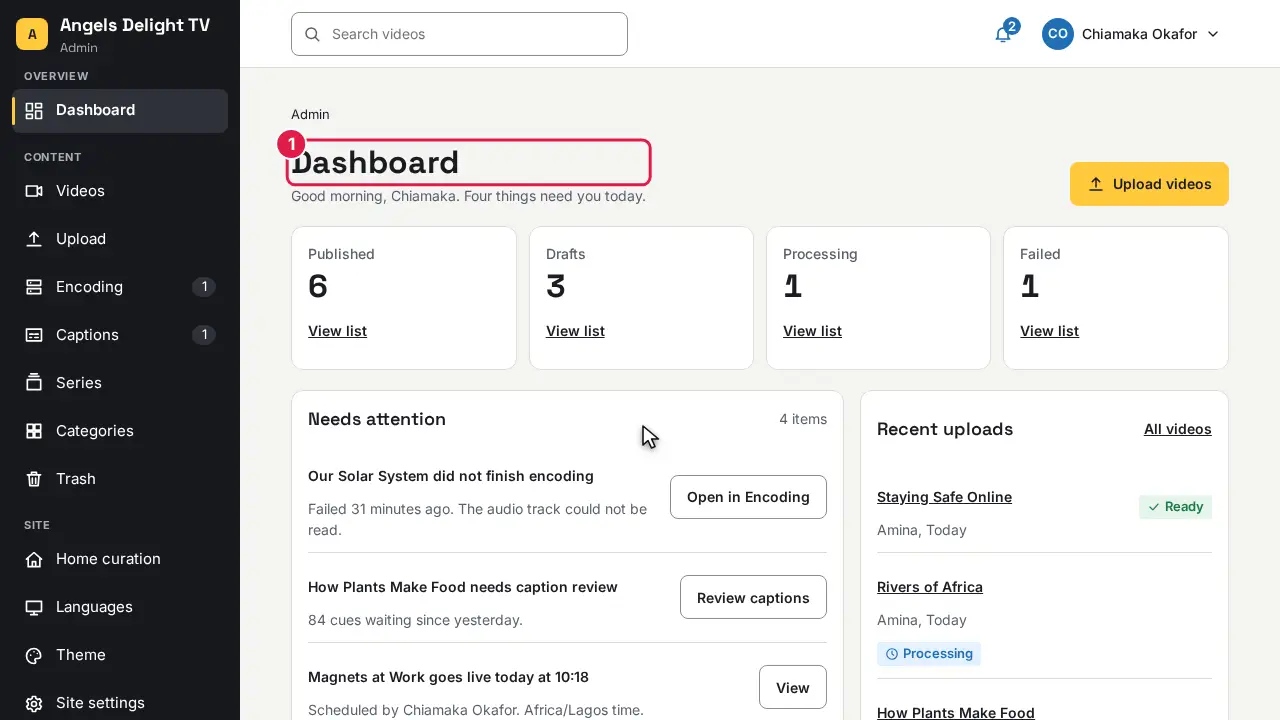
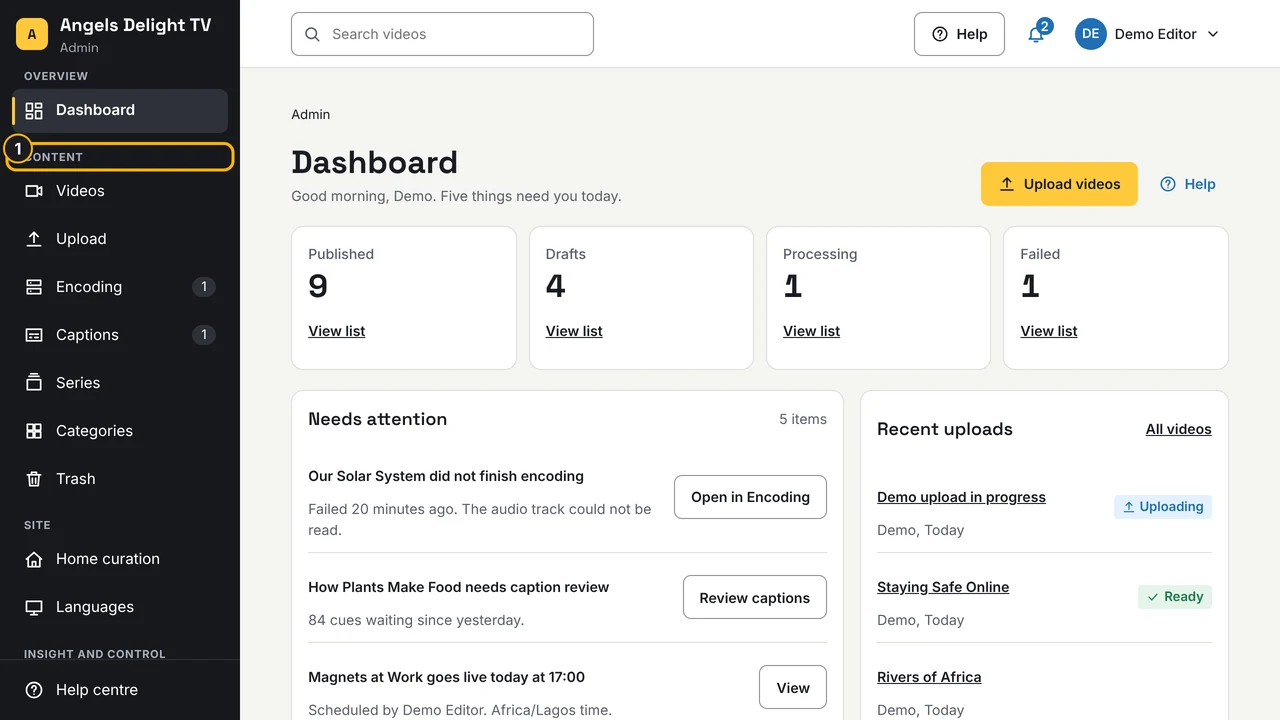
Reset help progress with the KB demo, search for the video in D05 and D06, lengthen short episodes and keep S06 off the unsaved poster

diff --git a/scripts/kb-recorder/episodes/S06.ts b/scripts/kb-recorder/episodes/S06.ts
@@ -107,6 +107,11 @@ const episode: Episode = {
         await waitForToast(s, 'Changes saved');
       },
     },
+    lookStep(
+      'Check that **Before you publish** shows what is left to do.',
+      (s) => s.page.getByText('Before you publish').first(),
+      { holdMs: 3200, shot: { name: 'checklist', alt: 'The Before you publish checklist marked 1', label: 'Checklist' } },
+    ),
     {
       caption: 'Click **Choose poster**.',
       holdMs: 1800,
@@ -120,24 +125,10 @@ const episode: Episode = {
         marks: [{ target: (s) => s.page.getByRole('button', { name: 'Save poster', exact: true }), label: 'Save poster' }],
       },
     },
-    {
-      caption: 'Click **Save poster**.',
-      holdMs: 1800,
-      run: async (s) => {
-        await clickByName(s, 'button', 'Save poster', { exact: true });
-      },
-    },
-    {
-      caption: 'Wait until you see **Poster saved**.',
-      holdMs: 2200,
-      run: async (s) => {
-        await waitForToast(s, 'Poster saved');
-      },
-    },
     lookStep(
-      'Check that **Before you publish** shows what is left to do.',
-      (s) => s.page.getByText('Before you publish').first(),
-      { holdMs: 3200, shot: { name: 'checklist', alt: 'The Before you publish checklist marked 1', label: 'Checklist' } },
+      'Check that **Save poster** is on the screen.',
+      (s) => s.page.getByRole('button', { name: 'Save poster', exact: true }),
+      { holdMs: 3400, shot: { name: 'save-poster', alt: 'The Save poster button marked 1', label: 'Save poster' } },
     ),
   ],
 };

diff --git a/apps/web/src/lib/data/admin/help-progress.ts b/apps/web/src/lib/data/admin/help-progress.ts
@@ -36,7 +36,7 @@ export function summarizeProgress(
   };
 }
 
-export function createFixtureHelpProgress(): HelpProgressService {
+export function createFixtureHelpProgress(): HelpProgressService & { clear(): void } {
   const store = new Map<string, ProgressRows>();
   const row = (actor: AdminActor, guide: string): GuideProgress => {
     assertGuide(guide);
@@ -45,6 +45,9 @@ export function createFixtureHelpProgress(): HelpProgressService {
     return (rows[guide] ??= { done: false, watched: false, helpful: null });
   };
   return {
+    clear() {
+      store.clear();
+    },
     async read(actor) {
       return structuredClone(store.get(actor.accountId) ?? {});
     },
@@ -61,9 +64,17 @@ export function createFixtureHelpProgress(): HelpProgressService {
 }
 
 const KEY = Symbol.for('ad.help.progress.fixture');
-const holder = globalThis as unknown as Record<symbol, HelpProgressService | undefined>;
+const holder = globalThis as unknown as Record<
+  symbol,
+  (HelpProgressService & { clear(): void }) | undefined
+>;
 
 export const helpProgress: HelpProgressService = delegating(
   (holder[KEY] ??= createFixtureHelpProgress()),
   async () => (await import('./real/help-progress')).realHelpProgress,
 );
+
+/** Forgets every account's progress on the fixture build. Only the KB demo reset calls it. */
+export function resetHelpProgressFixture(): void {
+  holder[KEY]?.clear();
+}

diff --git a/scripts/kb-recorder/episodes/D06.ts b/scripts/kb-recorder/episodes/D06.ts
@@ -1,6 +1,6 @@
 import type { Episode } from '../episode';
 import { lookStep, navStep, rowLink } from '../c1-common';
-import { clickByName, waitForToast } from '../helpers';
+import { clickByName, typeInto, waitForToast } from '../helpers';
 
 /** D06 Choose or upload a poster: pick one of the six frames, check the crop, save. */
 const episode: Episode = {
@@ -16,6 +16,20 @@ const episode: Episode = {
   next: 'D07 Review and approve captions',
   steps: [
     navStep('Videos', 'Choose **Videos** in the side menu.'),
+    {
+      caption: 'Type "Naira" in the **Search** box.',
+      note: 'The list narrows as you type, so your video is easy to find.',
+      holdMs: 2200,
+      shot: {
+        name: 'search',
+        alt: 'The Search box with Naira typed and one video left in the list',
+        marks: [{ target: (s) => s.page.getByLabel('Search', { exact: true }), label: 'Search' }],
+      },
+      run: async (s) => {
+        await typeInto(s, 'Search', 'Naira');
+        await s.page.getByRole('link', { name: 'Counting Money in Naira', exact: true }).first().waitFor();
+      },
+    },
     {
       caption: 'Click **Edit Counting Money in Naira**.',
       holdMs: 1800,

diff --git a/scripts/kb-recorder/episodes/D05.ts b/scripts/kb-recorder/episodes/D05.ts
@@ -19,8 +19,22 @@ const episode: Episode = {
   next: 'D06 Choose or upload a poster',
   steps: [
     navStep('Videos', 'Choose **Videos** in the side menu.', {
-      shot: { name: 'list', alt: 'The Videos list with the video Counting Money in Naira marked 1' },
+      shot: { name: 'list', alt: 'The Videos list with the Videos menu item marked 1' },
     }),
+    {
+      caption: 'Type "Naira" in the **Search** box.',
+      note: 'The list narrows as you type, so your video is easy to find.',
+      holdMs: 2200,
+      shot: {
+        name: 'search',
+        alt: 'The Search box with Naira typed and one video left in the list',
+        marks: [{ target: (s) => s.page.getByLabel('Search', { exact: true }), label: 'Search' }],
+      },
+      run: async (s) => {
+        await typeInto(s, 'Search', 'Naira');
+        await s.page.getByRole('link', { name: 'Counting Money in Naira', exact: true }).first().waitFor();
+      },
+    },
     {
       caption: 'Click **Edit Counting Money in Naira**.',
       holdMs: 1800,

diff --git a/apps/web/src/lib/data/admin/kb-demo/reset.test.ts b/apps/web/src/lib/data/admin/kb-demo/reset.test.ts
@@ -1,4 +1,5 @@
 import { afterEach, describe, expect, it } from 'vitest';
+import { helpProgress } from '../help-progress';
 import { getStore } from '../store';
 import { DEMO_NOW_ISO } from './dataset';
 import { kbDemoAllowed, resetDemoStore } from './reset';
@@ -50,4 +51,13 @@ describe('resetDemoStore clears the other fixture state too', () => {
       expect(holder[Symbol.for(key)]).toBeUndefined();
     },
   );
+});
+
+describe('resetDemoStore and help progress', () => {
+  it('forgets which guides an account marked as done', async () => {
+    const actor = { accountId: 'acc_reset_probe' } as Parameters<typeof helpProgress.read>[0];
+    await helpProgress.setGuideDone(actor, 'S01', true);
+    resetDemoStore();
+    expect((await helpProgress.read(actor)).S01).toBeUndefined();
+  });
 });

diff --git a/apps/web/src/lib/data/admin/kb-demo/reset.ts b/apps/web/src/lib/data/admin/kb-demo/reset.ts
@@ -1,3 +1,4 @@
+import { resetHelpProgressFixture } from '../help-progress';
 import { adminDataMode } from '../mode';
 import { resetInviteCodeFixture } from '../invite-codes';
 import { resetNoticeFixture } from '../notices';
@@ -30,6 +31,7 @@ export function resetDemoStore(): { now: number; store: AdminStore } {
   const holder = globalThis as unknown as Record<symbol, unknown>;
   for (const key of HELD_STATE) delete holder[Symbol.for(key)];
   resetNoticeFixture();
+  resetHelpProgressFixture();
   resetInviteCodeFixture();
   const store = resetStore(applyDemo(seedStore(now), DEMO_DATASET, now));
   return { now, store: store ?? getStore() };

diff --git a/scripts/kb-recorder/episodes/D10.ts b/scripts/kb-recorder/episodes/D10.ts
@@ -75,7 +75,7 @@ const episode: Episode = {
     lookStep(
       'Check that **Undo** is shown if you need to go back.',
       (s) => s.page.getByRole('button', { name: 'Undo', exact: true }).first(),
-      { holdMs: 3000, shot: { name: 'undo', alt: 'The result message with the Undo button marked 1', label: 'Undo' } },
+      { holdMs: 17000, shot: { name: 'undo', alt: 'The result message with the Undo button marked 1', label: 'Undo' } },
     ),
   ],
 };

diff --git a/scripts/kb-recorder/episodes/D11.ts b/scripts/kb-recorder/episodes/D11.ts
@@ -46,7 +46,7 @@ const episode: Episode = {
       holdMs: 1800,
       run: async (s) => {
         await s.click(s.page.getByRole('dialog').getByRole('button', { name: 'Move to Trash', exact: true }));
-        await s.page.getByRole('heading', { name: 'Videos' }).first().waitFor();
+        await s.page.waitForURL(/\/admin\/videos$/);
       },
     },
     navStep('Trash', 'Choose **Trash** in the side menu.', {

diff --git a/scripts/kb-recorder/episodes/D01.ts b/scripts/kb-recorder/episodes/D01.ts
@@ -60,7 +60,7 @@ const episode: Episode = {
     },
     {
       caption: 'Click **Open in Encoding** to go straight to a video that needs you.',
-      holdMs: 2000,
+      holdMs: 5000,
       run: async (s) => {
         const link = s.page.getByRole('link', { name: 'Open in Encoding', exact: true }).first();
         await scrollTo(s, link, 0.3);

diff --git a/scripts/kb-recorder/episodes/D04.ts b/scripts/kb-recorder/episodes/D04.ts
@@ -59,7 +59,7 @@ const episode: Episode = {
     },
     {
       caption: 'Wait until you see **Uploaded just now**.',
-      holdMs: 3000,
+      holdMs: 11000,
       run: async (s) => {
         await s.skippable(async () => {
           await s.page.getByText('Uploaded just now').filter({ visible: true }).first().waitFor({ timeout: 120_000 });

diff --git a/scripts/kb-recorder/episodes/D12.ts b/scripts/kb-recorder/episodes/D12.ts
@@ -47,7 +47,7 @@ const episode: Episode = {
     },
     {
       caption: 'Wait until you see **is back in the queue**.',
-      holdMs: 3000,
+      holdMs: 16000,
       run: async (s) => {
         await waitForToast(s, 'is back in the queue');
       },

diff --git a/scripts/kb-recorder/episodes/D07.ts b/scripts/kb-recorder/episodes/D07.ts
@@ -74,7 +74,7 @@ const episode: Episode = {
     },
     {
       caption: 'Wait until you see **Captions approved**.',
-      holdMs: 3000,
+      holdMs: 7000,
       run: async (s) => {
         await waitForToast(s, 'Captions approved');
       },
